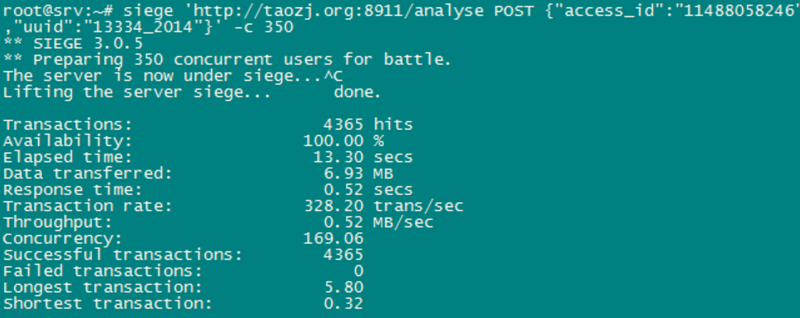
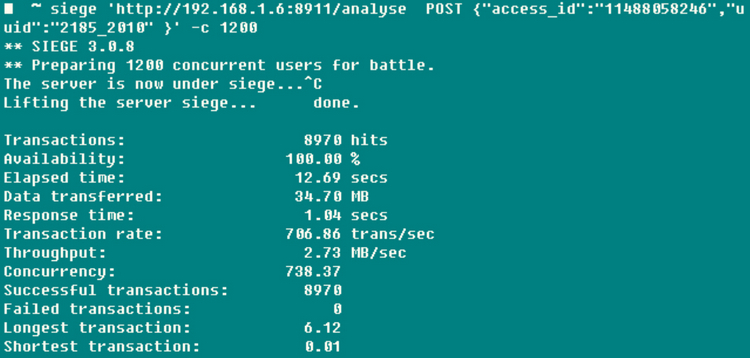
update performance test

Changed region(s): [[0.0, 0.0, 1.0, 0.3113], [0.0, 0.3679, 0.3067, 0.9906], [0.368, 0.3679, 0.5827, 0.9906]]

diff --git a/README.md b/README.md
@@ -5,9 +5,10 @@
 [![License](https://img.shields.io/badge/license-BSD-red.svg)](http://yanyiwu.mit-license.org)
 
 
-This is mostly focus on general http web server development based on BOost.Asio!   
+This is mostly focus on general http web server development based on Boost.Asio!   
 For some purpose, c++0x branch is actively recently.   
 
 The performance worked as:    
-4 worker thread, siege -c 350     
+Core(TM) i5-4460, 4 worker thread(hardware_concurrency), siege -c 1200    
+BuildOptimizeLevel: -O2    
 ![siege](https://raw.githubusercontent.com/taozhijiang/ailawd/c%2B%2B0x/ailawd_performance.jpg)
